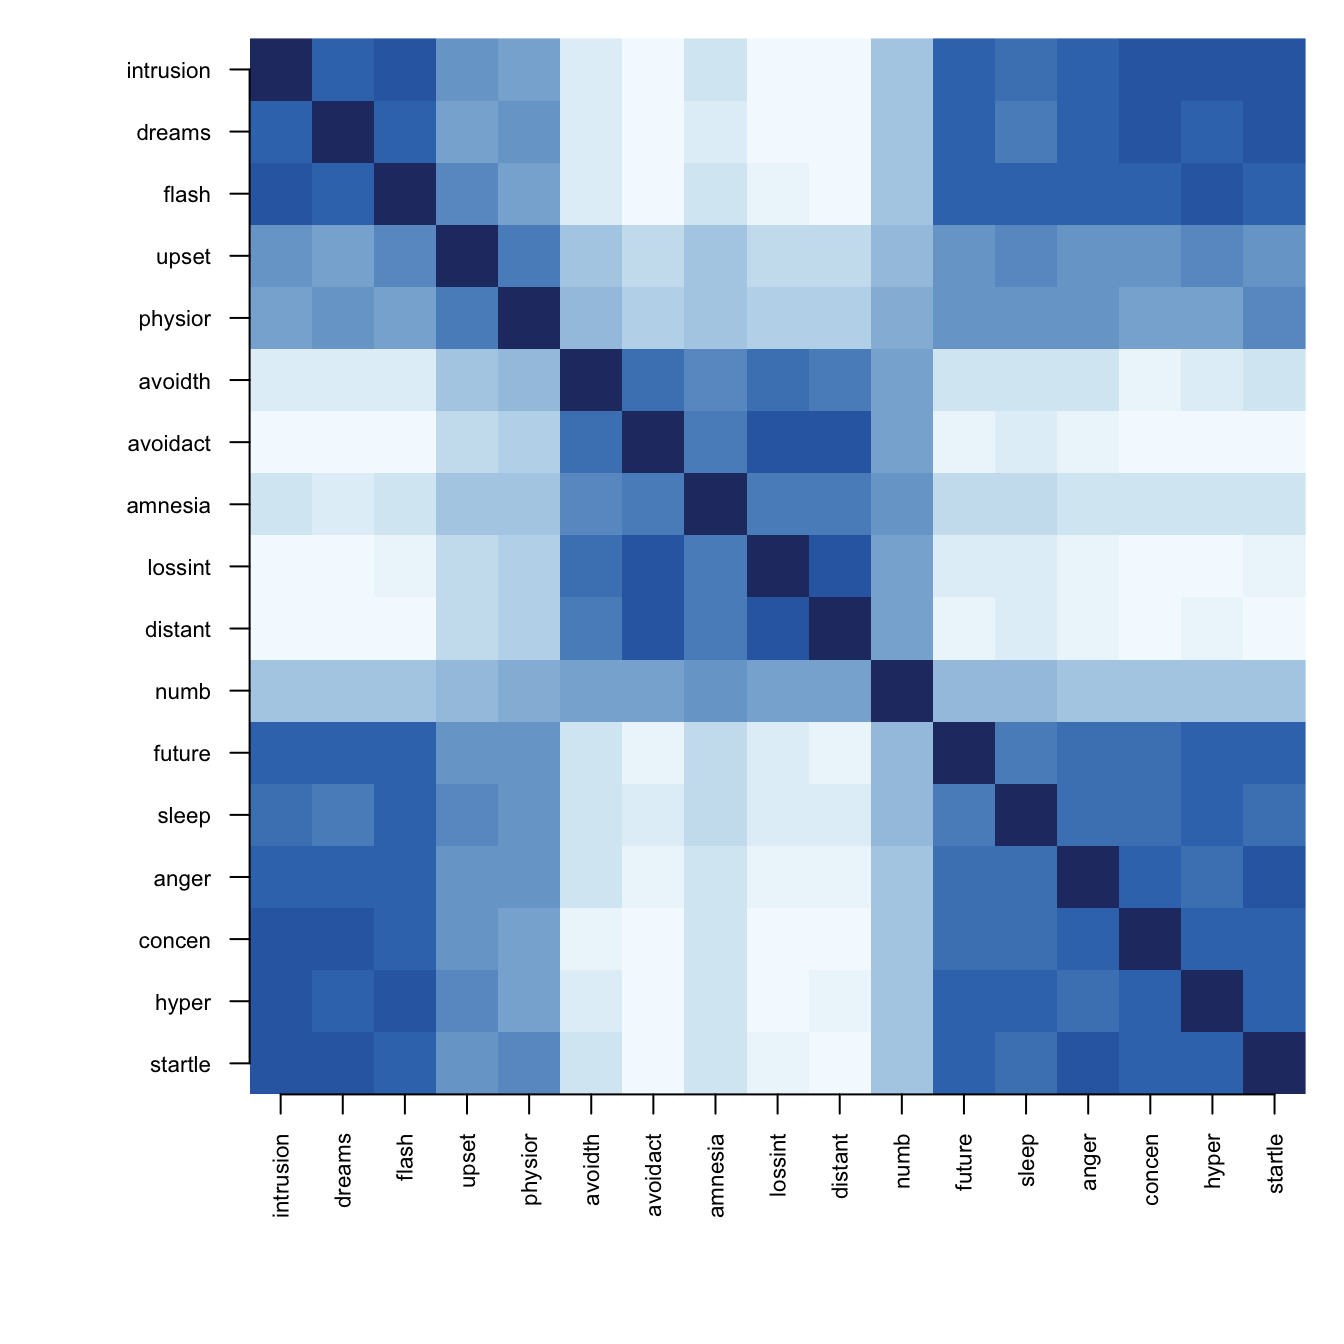
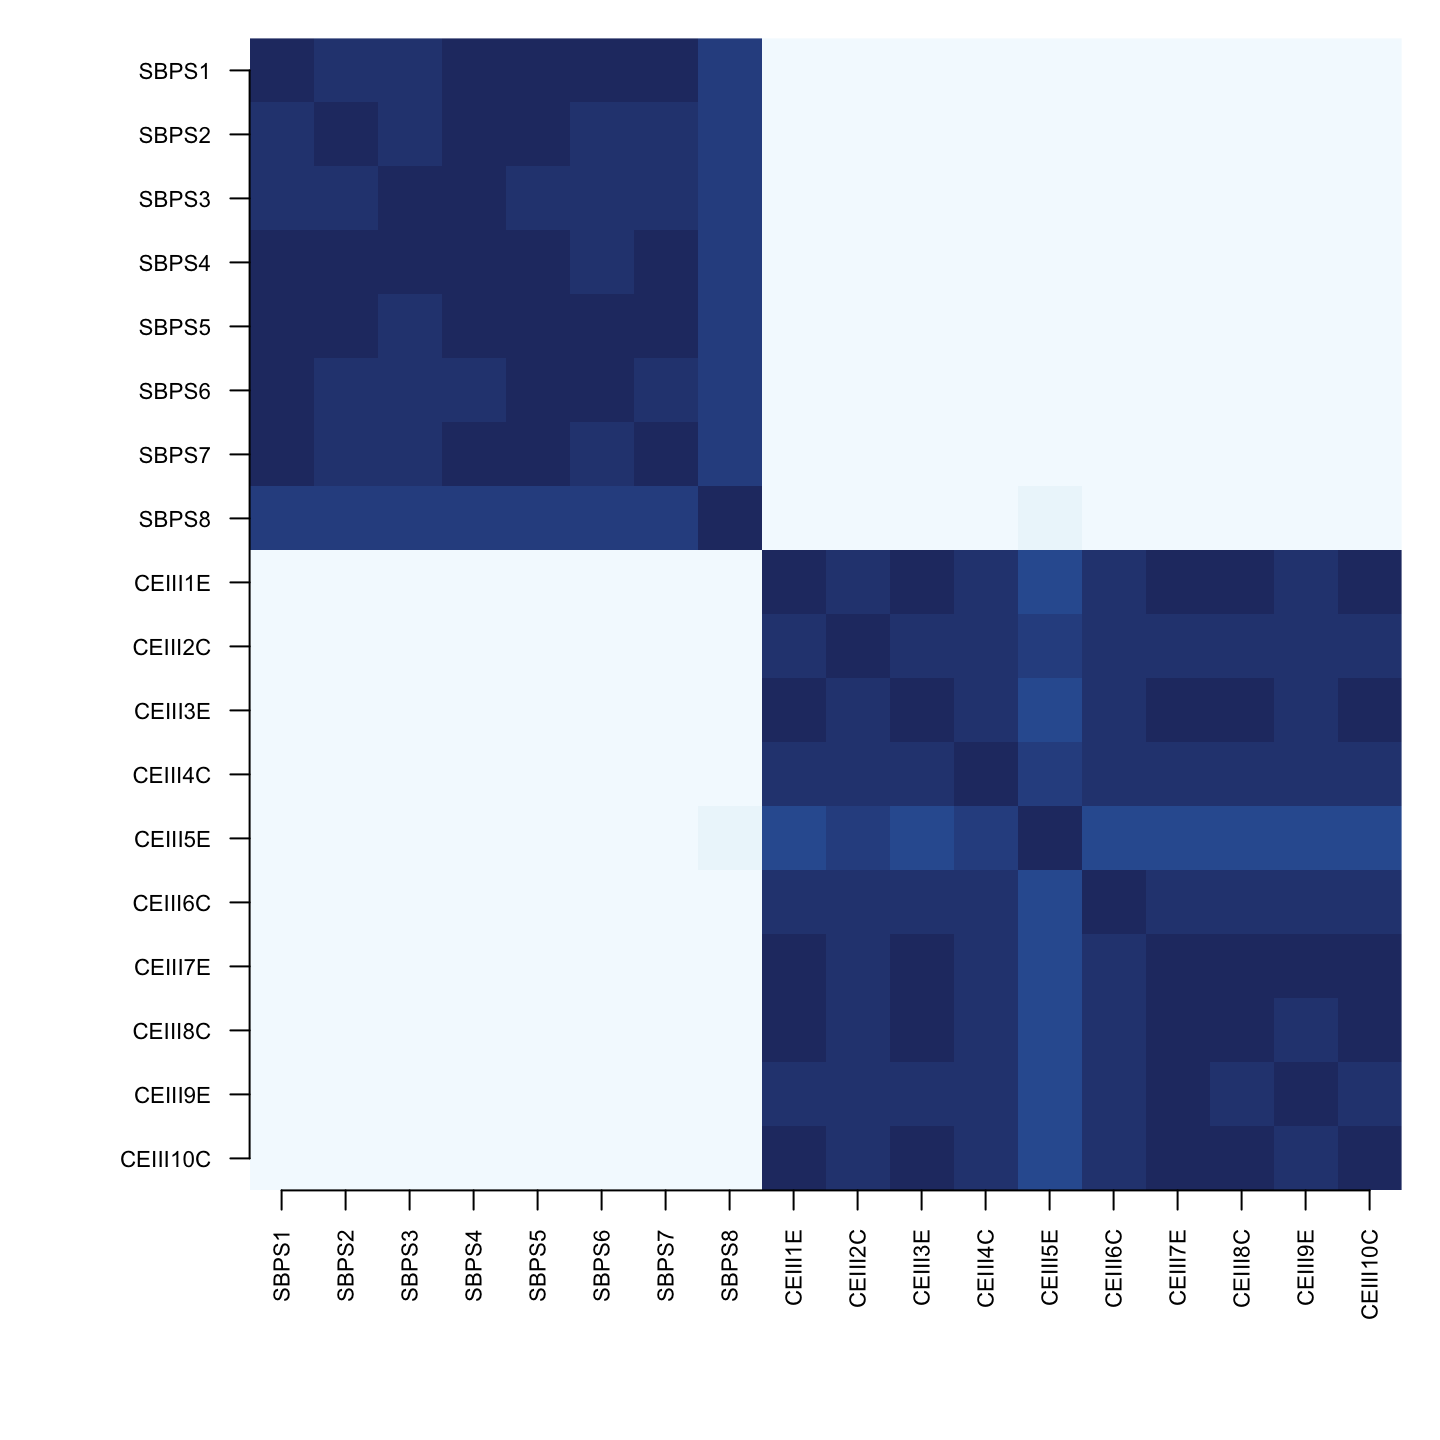
docs(b5): rework Edge clustering on the Martarelli SBPS/CEI-II data
Replaces the Wenchuan version of the page per MM's direction. The
data are the 18 items of the French Short Boredom Proneness Scale
validation study (8 boredom, 10 curiosity/exploration items,
N = 490), shipped at data/martarelli.rds and published with the
site so the companion script can download them. On these data the
SBM prior recovers the two instruments as two clusters without
being told the item assignments: clustering Bayes factor about
200, two-vs-one about 212, two-vs-three undecided at 1.04, with
co-clustering 0.82 to 0.96 within blocks and at most 0.09 across.

The run length is deliberate and taught on the page: the package
defaults print a warmup warning that the diagnostics confirm
(split-Rhat 1.35, ESS 44), and the clustering answer is unstable
until convergence (BF about 6 at iter 1e4 against about 200 at
2e4). The shipped fit runs iter 2e4 / warmup 1e4 with worst
split-Rhat 1.013 and smallest ESS about 350.

Riding along: the datasets page cited the Boredom data to a
nonexistent reference (dead DOI); all three citations now point
at the Crossref-verified EJPA validation paper and the bad bib
entry is removed. The datasets page also gains a pointer to the
companion 18-item file. The old Wenchuan-null cross-claim is
dropped from the page: the defaults-length Wenchuan SBM fixture
is itself under-converged (split-Rhat 1.15), so the claim is not
safe to quote.

diff --git a/dev/task-list.md b/dev/task-list.md
@@ -421,7 +421,7 @@ Anything below in "Secondary Backlog" is not part of this immediate review seque
 | examples/comparing-groups.qmd | Medium | Not started | No | No | B4 |
 | examples/comparing-groups.qmd | Medium | Populated | No | No | B4 (2026-08-04, Fable): the worked bgmCompare page on the ADHD fixture (defaults + seed, matching fixtures/bake.R exactly). Payoff = plot(fit) difference display, live: 5 supported / 0 ruled out / 148 undecided of 153 pairwise differences at BF 10; 2 fragile; 18 main-diff rows unsampled (main_difference_selection = FALSE) with the print's marking explained; flag_validated = FALSE for differences stated per the checks contract. Difference walked: motor-seat BF 886, group weights -0.51 (no diagnosis) vs +0.91 (diagnosed), the sign flip named as the finding. Equivalence handled honestly: none at BF 10 (strongest forget-org BF01 3.6, undecided), 8 at threshold 3 shown live, scope stated as invariance of the modeled parameter. Guide trim per ownership rule: group-comparison.qmd's worked example (fixture chunks + three-row snippet) replaced by a pointer paragraph; NOTE FOR MM per the brief. Companion script 05 = fit, plot, verdicts, difference walk, threshold-3 table. MM sign-off pending |
 | examples/edge-clustering.qmd | Medium | Not started | No | No | B5 |
-| examples/edge-clustering.qmd | Medium | Populated | No | No | B5 (2026-08-04, Fable): the worked SBM page on the Wenchuan fixture (bgm defaults + sbm_prior() defaults + seed, matching fixtures/bake.R exactly). Payoff = posterior co-clustering heatmap (uncertainty in the figure, per the brief's constraint); prose names its visible texture (intrusion/arousal shading darker together than the avoidance items) and names it texture, not evidence. All numbers live: P(B=1) = 0.42, clustering BF 0.80 computed on-page from extract_sbm() output with the exp(lambda)-1 prior odds (no exported BF function; two-line computation, within the brief's hand-rolling allowance), B=1-vs-B=2 BF 1.16, all 17 modal allocations one cluster, co-clustering range 0.57-0.91. Verdicts table 32/32/72 shown, with the contrast to estimation-to-evidence (35/39/62) explicitly flagged as NOT a controlled prior comparison (that fixture ran iter 1e4 / warmup 5e3, this one at defaults). What-a-cluster-is-not section per brief (edge inclusion structure; not a causal module, latent factor, or subscale). Guide trim per ownership rule: clustering.qmd's worked example (fixture chunks + heatmap) replaced by a pointer paragraph; NOTE FOR MM per the brief. Companion script 06 = fit, extract, BF, allocations, heatmap, verdicts. MM sign-off pending |
+| examples/edge-clustering.qmd | Medium | Populated | No | No | B5 REWORKED on the Martarelli data (2026-08-05, Fable; MM directive replacing the Wenchuan version): 18 items (8 SBPS boredom + 10 CEI-II curiosity) from the French SBPS validation, N = 490, data shipped at data/martarelli.rds and published with the site (companion script downloads it from the site URL). Fit = bgm(items, edge_prior = sbm_prior(), iter = 2e4, warmup = 1e4, seed = 123); the run length is deliberate and taught on-page: defaults (2e3/2e3) print a warmup warning with split-Rhat 1.35 / ESS 44, and the clustering BF is unstable until convergence (about 6 at iter 1e4 vs about 200 at 2e4); final diagnostics worst split-Rhat 1.013, min ESS about 350, wobble confined to cross-block edges. Story: clustering BF 202, two-vs-one 212, two-vs-three 1.04 (undecided; second-order honesty beat), modal partition recovers the two instruments exactly, co-clustering 0.82-0.96 within / at most 0.09 between; verdicts 37/24/92. Citation fix riding along: datasets.qmd Boredom section cited a fabricated Martarelli/Wolff/Wolff entry (dead DOI); replaced with the Crossref-verified EJPA paper (MartarelliEtAl_2023_sbps), bad bib entry deleted; package-side name nit filed as flagged-issues item 24. Wenchuan-null cross-claim DROPPED: the old fit_wenchuan_sbm fixture at defaults is itself under-converged (Rhat 1.15, ESS 123). Companion script 06 = download, fit, extract, BFs, allocations, ranges, heatmap, verdicts. MM sign-off pending |
 | examples/from-bootnet-qgraph.qmd | High | Not started | No | No | B6; terminology sync with the tutorial manuscript (NS) |
 | examples/from-bootnet-qgraph.qmd | High | Populated | No | No | B6 (2026-08-04, Fable): the switcher on-ramp. Eleven-row mapping table synced with the manuscript's translation table (sec:translation): its eight rows carried over cell for cell in website register; three rows added beyond it, flagged for the manuscript to adopt or decline: how-do-I-draw-it (plot(network) -> plot(fit)), do-the-groups-differ (NCT -> bgmCompare; the manuscript deliberately keeps groups out of its table and points at its discussion instead, so this row is a deliberate page-level deviation), and what-does-a-blank-mean (links the flagship). Left column verified against installed bootnet 1.9.1 / qgraph 1.10.1 / NetworkComparisonTest 2.2.3 (differenceTest measure = "edge" confirmed in its Rd); every right-column call executed against fit_wenchuan.rds in a hidden verify-map chunk that stopifnot-fails the render on a broken claim. Epskamp-Borsboom-Fried 2018 added to references.bib after Crossref verification (the one citation the silent-zero quote at p. 200 needs). Companion script 07 is the right column top to bottom. Give-up paragraph names runtime, prior-owned shrinkage, CS-coefficient, bridge/expected-influence, non-EBICglasso defaults. MM close review expected per the brief |
 | **Reference** | | | | | |
